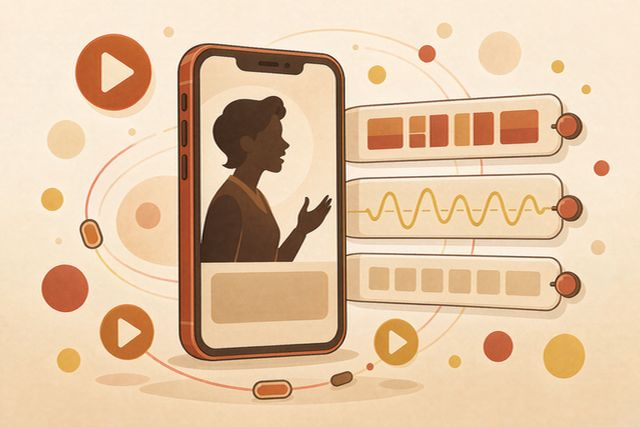
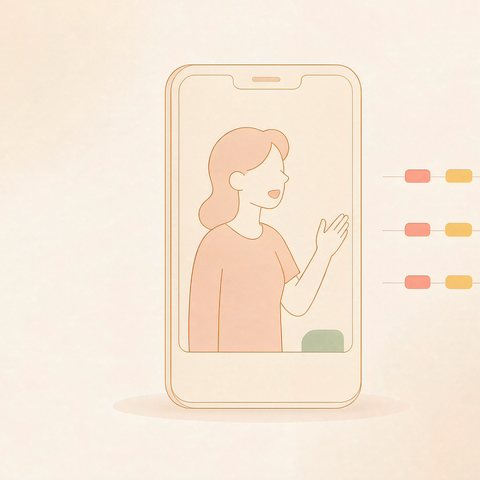
插图改清新暖色 + 主体居中缩略图 + 轮播文字适配浅底

diff --git a/tools/mp-thumbs-fresh.py b/tools/mp-thumbs-fresh.py
@@ -1,0 +1,97 @@
+# -*- coding: utf-8 -*-
+"""清新版插画 → 方形缩略图（自动定位主体，避免留白被裁掉后只剩底色）
+用法：python tools/mp-thumbs-fresh.py
+来源：assets/ai-covers-fresh/noWM（若为空则用 assets/ai-covers-warm/noWM 里那批）
+输出：miniprogram/assets/covers/mp-cat-01..08.jpg（480x480，奶油底补边）
+"""
+import glob
+import os
+
+import numpy as np
+from PIL import Image
+
+ROOT = os.path.dirname(os.path.dirname(os.path.abspath(__file__)))
+OUT = os.path.join(ROOT, "miniprogram", "assets", "covers")
+SRC_DIRS = [
+    os.path.join(ROOT, "assets", "ai-covers-fresh", "noWM"),
+    os.path.join(ROOT, "assets", "ai-covers-warm", "noWM"),
+]
+BG = (253, 248, 242)  # 与插画底色一致的奶油白
+
+MAP = [
+    ("52284ca4", "mp-cat-01.jpg"),  # 婚礼跟拍
+    ("4dbcda01", "mp-cat-02.jpg"),  # 婚礼微电影
+    ("33412eef", "mp-cat-03.jpg"),  # 品牌宣传片
+    ("39a1ae74", "mp-cat-04.jpg"),  # 短视频剪辑
+    ("70a4a3cb", "mp-cat-05.jpg"),  # 商业摄影
+    ("c821c9f6", "mp-cat-06.jpg"),  # AE 动画
+    ("7e17db1a", "mp-cat-07.jpg"),  # AI 生成
+    ("c83eac5f", "mp-cat-08.jpg"),  # 漫剧制作
+]
+
+
+def find(pid):
+    for d in SRC_DIRS:
+        g = glob.glob(os.path.join(d, "*%s*" % pid))
+        if g:
+            return g[0]
+    return None
+
+
+def content_box(im, thresh=30):
+    """按与四角底色的色差找出主体外接矩形（缩到 300 宽检测；阈值 30 能滤掉背景渐变）"""
+    small = im.convert("RGB").resize((300, int(300 * im.size[1] / im.size[0])), Image.BILINEAR)
+    a = np.asarray(small).astype(np.int16)
+    corner = np.mean([
+        a[0:6, 0:6].reshape(-1, 3).mean(axis=0),
+        a[-6:, -6:].reshape(-1, 3).mean(axis=0),
+    ], axis=0)
+    diff = np.abs(a - corner).max(axis=2)
+    mask = diff > thresh
+    if mask.sum() < 200:  # 几乎全是底色，退回整幅
+        return (0, 0) + im.size
+    ys, xs = np.where(mask)
+    sx = im.size[0] / small.size[0]
+    sy = im.size[1] / small.size[1]
+    pad = 0.06 * max(xs.max() - xs.min(), ys.max() - ys.min())
+    x0 = max(0, int((xs.min() - pad) * sx))
+    y0 = max(0, int((ys.min() - pad) * sy))
+    x1 = min(im.size[0], int((xs.max() + pad) * sx))
+    y1 = min(im.size[1], int((ys.max() + pad) * sy))
+    return x0, y0, x1, y1
+
+
+def square(im, box, size=480, air=1.14):
+    """在画面内取正方形（不补边，避免和原图渐变出现色带），中心对齐主体"""
+    W, H = im.size
+    x0, y0, x1, y1 = box
+    side = int(max(x1 - x0, y1 - y0) * air)
+    side = min(side, W, H)
+    cx, cy = (x0 + x1) / 2, (y0 + y1) / 2
+    left = int(round(cx - side / 2))
+    top = int(round(cy - side / 2))
+    left = max(0, min(left, W - side))
+    top = max(0, min(top, H - side))
+    return im.crop((left, top, left + side, top + side)).resize((size, size), Image.LANCZOS)
+
+
+def main():
+    ok, missing = 0, []
+    for pid, name in MAP:
+        src = find(pid)
+        if not src:
+            missing.append(name)
+            continue
+        im = Image.open(src).convert("RGB")
+        box = content_box(im)
+        square(im, box).save(os.path.join(OUT, name), "JPEG", quality=84, optimize=True, progressive=True)
+        kb = os.path.getsize(os.path.join(OUT, name)) / 1024
+        print("OK %-14s <- %s  box=%s  %dKB" % (name, pid, box, kb))
+        ok += 1
+    print("完成 %d 张" % ok)
+    if missing:
+        print("缺失:", missing)
+
+
+if __name__ == "__main__":
+    main()

diff --git a/tools/mp-media-fresh.py b/tools/mp-media-fresh.py
@@ -1,0 +1,81 @@
+# -*- coding: utf-8 -*-
+"""把清新暖色版 AI 插画（已去水印）压成小程序包内图。
+用法：python tools/mp-media-fresh.py
+来源：项目根目录 processed_image_*_1.png（由 tools/erase-watermarks.py 产出，源图在 assets/ai-covers-fresh）
+输出：miniprogram/assets/covers/mp-cat-0N.jpg / mp-banner-1.jpg / mp-hero.jpg
+按原文件名里的主题关键词匹配，不依赖 task id。
+"""
+import glob
+import os
+import shutil
+import sys
+
+from PIL import Image
+
+ROOT = os.path.dirname(os.path.dirname(os.path.abspath(__file__)))
+OUT = os.path.join(ROOT, "miniprogram", "assets", "covers")
+ARCHIVE = os.path.join(ROOT, "assets", "ai-covers-fresh", "noWM")
+
+# 擦除任务 id 前缀 → 输出文件（暖色版这批的实际映射，见 erase-watermarks 的 DONE 输出）
+JOBS = [
+    ("5ca7546a", "mp-cat-02.jpg"),  # 婚礼微电影
+    ("ac771c1f", "mp-cat-01.jpg"),  # 婚礼跟拍
+    ("e3fdbeb1", "mp-cat-03.jpg"),  # 品牌宣传片
+    ("0e4b7eb9", "mp-cat-04.jpg"),  # 短视频剪辑
+    ("79f29872", "mp-cat-05.jpg"),  # 商业摄影
+    ("99acf74f", "mp-cat-06.jpg"),  # AE 动效动画
+    ("bc285667", "mp-cat-07.jpg"),  # AI 生成
+    ("a0d25204", "mp-cat-08.jpg"),  # 漫剧制作
+]
+WIDE = ("7df5c5ef", [("mp-banner-1.jpg", (900, 600)), ("mp-hero.jpg", (900, 600))])
+
+
+def find(keyword):
+    for f in glob.glob(os.path.join(ROOT, "processed_image_*.png")):
+        if keyword in os.path.basename(f):
+            return f
+    return None
+
+
+def encode(src, name, size):
+    dst = os.path.join(OUT, name)
+    Image.open(src).convert("RGB").resize(size, Image.LANCZOS).save(
+        dst, "JPEG", quality=80, optimize=True, progressive=True
+    )
+    return os.path.getsize(dst) / 1024
+
+
+def main():
+    os.makedirs(ARCHIVE, exist_ok=True)
+    total, missing, used = 0.0, [], []
+    for kw, name in JOBS:
+        src = find(kw)
+        if not src:
+            missing.append(kw)
+            continue
+        kb = encode(src, name, (640, 427))
+        total += kb
+        used.append(src)
+        print("OK %-14s %-16s %dKB" % (name, kw, kb))
+
+    src = find(WIDE[0])
+    if src:
+        used.append(src)
+        for name, size in WIDE[1]:
+            kb = encode(src, name, size)
+            total += kb
+            print("OK %-14s %-16s %dKB" % (name, WIDE[0], kb))
+    else:
+        missing.append(WIDE[0])
+
+    for src in used:
+        shutil.move(src, os.path.join(ARCHIVE, os.path.basename(src)))
+    print("ARCHIVED %d 张到 assets/ai-covers-fresh/noWM/" % len(used))
+    print("TOTAL %.0fKB" % total)
+    if missing:
+        print("MISSING:", missing)
+        sys.exit(1)
+
+
+if __name__ == "__main__":
+    main()

diff --git a/小程序项目档案.md b/小程序项目档案.md
@@ -73,6 +73,8 @@
 | 本地冻结记账：`utils/wallet.js`（分单位账本、freeze/unfreeze/settle/earn/recharge、wx.storage 持久化）+ `utils/demand.js`（云端 listOpenOrders 优先、失败回退演示需求池、抢单冻结 10% 保证金、验收结算扣 8% 服务费）。闭环测试 `tools/test-demand.js` 12 项全过 | ✅ 2026-11-16 |
 | 订单页补顶部搜索 + 6 宫格统计（待实施/进行中/待验收/退款中/交易完成/交易关闭）；首页补同口径工作台统计格；`switchTab` 跳非 tab 页的 4 处全部改 `navigateTo`（否则静默失败） | ✅ 2026-11-16 |
 | 资金为**记账模式**，未接微信支付。接真实支付需企业商户号 + 分账资质（平台代收代付属二清），届时只换 `wallet.js` 一层 | ⏳ 待办 |
+| **提现与收款账户（2026-11-16）**：新增 `pages/withdraw`（提现：余额/到账方式/金额/规则/记录）、`pages/accounts`（收款账户：微信零钱默认项 + 添加银行卡/支付宝 + 设默认/删除）；数据层 `utils/payout.js`（卡号只存脱敏尾号、Luhn 未做真实性校验、单笔最低 10 元、单日 5 万演示限额、提现写 wallet 流水 `withdraw`）；测试 `tools/test-payout.js` 15 项全过 | ✅ 2026-11-16 |
+| 提现真实落地前置：① 微信零钱需商户号开通「企业付款到零钱」+ 服务商/分账资质（否则二清）；② 支付宝/银行卡为后端出款，小程序内不得跳转支付宝、不得内嵌 SDK；③ 银行卡需后端加密存 token，前端只展示尾号 | ⏳ 待办 |
 
 **导入踩坑记录（2026-11-14）**：① 工具「+」是新建模板项目，导入已有工程必须点右上角「导入」；② 未登录时「测试号」报 `Error: 需要重新登录`，但 `cli islogin` 返回 `{"login":true}` 时可用——先查登录态再操作；③ `wx1234567890abcdef` 只是游客占位，CLI/表单均判 `invalid appid`，不能拿来顶替；④ 导入表单必须点「使用 测试号」让工具联网分配真实 AppID；⑤ 项目首次打开会弹「您信任此项目的作者吗？」，需点「信任并运行」才编译；⑥ Git Bash 会把 argv 里的 `\` 转成 `/`，路径要用 `.replace('/', '\\')` 还原；⑦ 目测截图坐标会被图片缩放骗，用像素颜色扫描定位按钮才准。
 
